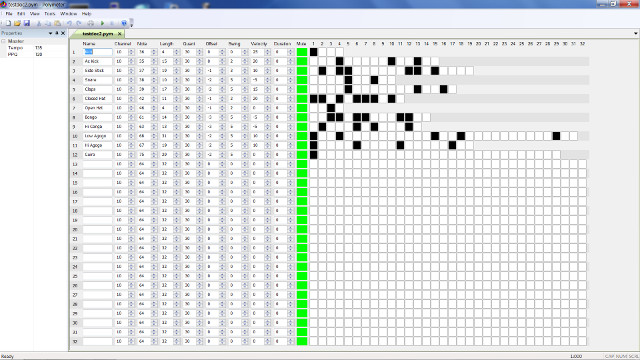
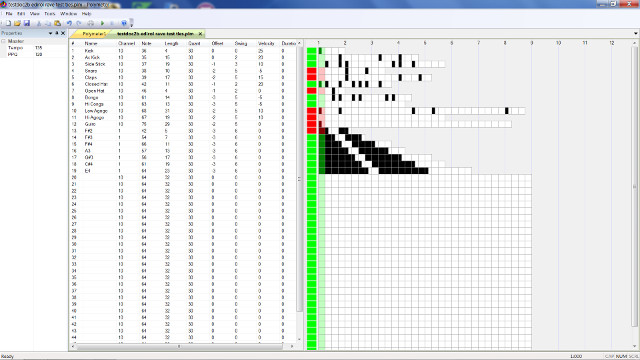
update screen shots

diff --git a/docs/index.html b/docs/index.html
@@ -37,9 +37,13 @@ Polymeter is a MIDI sequencer for music that's in multiple prime meters (1, 2, 3
 
 <h2>News</h2>
 
+<p><b>May 4, 2018</b>
+
+<p>Version 0.0.3 support tied notes. It's available for <a href="download.html">download</a>; for details, check the <a href="relnotes.html">release notes</a>.
+
 <p><b>Apr 29, 2018</b>
 
-<p>Version 0.0.1 allows unlimited track length, thanks to a completely redesigned UI. It's available for <a href="download.html">download</a>; for details, check the <a href="relnotes.html">release notes</a>.
+<p>Version 0.0.1 allows unlimited track length, thanks to a completely redesigned UI.
 
 <p><b>Apr 22, 2018</b>
 

diff --git a/docs/screenshots.html b/docs/screenshots.html
@@ -31,7 +31,7 @@
 
 <p>Click for larger image.
 
-<a href="images/screenshots/polymeter-screenshot.png"><img src="images/screenshots/polymeter-screenshot.jpg" width=640 height=360" alt="Polymeter screenshot"></a>
+<p><a href="images/screenshots/polymeter-screenshot.png"><img src="images/screenshots/polymeter-screenshot.jpg" width=640 height=360" alt="Polymeter screenshot"></a>
 
 <!--  content stops HERE  -->
 </div>
